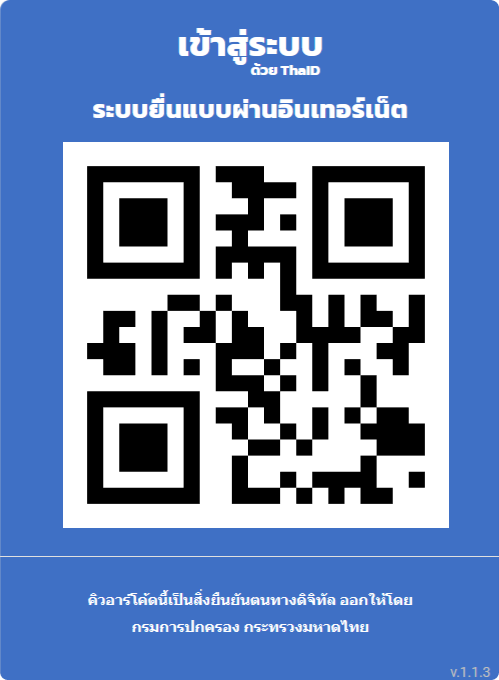
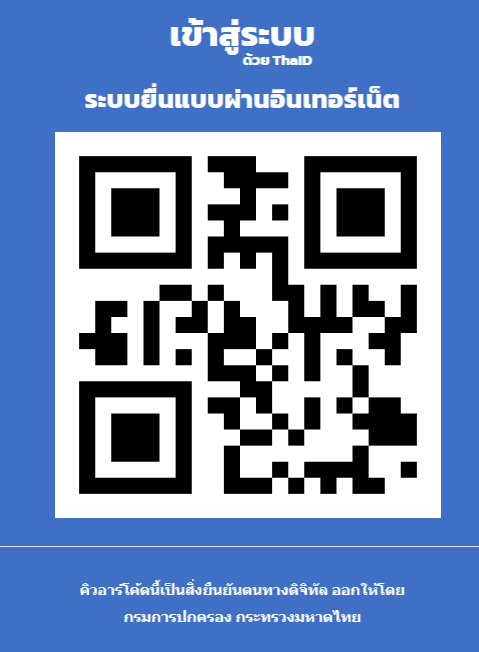
edit form regiser

diff --git a/assets/css/multi.css b/assets/css/multi.css
@@ -22,8 +22,6 @@
     box-sizing: border-box;
     width: 94%;
     margin: 0 3% 20px 3%;
-
-    /*stacking fieldsets above each other*/
     position: relative;
 }
 
@@ -149,7 +147,7 @@ select.list-dt:focus {
 
 
 .card-bg-form {
-    background-color: #fdfdfd;
+    background-color: #ffffff;
 }
 
 /*FieldSet headings*/
@@ -306,7 +304,7 @@ select.list-dt:focus {
 
 .form-card-1 {
     width: 200px;
-    height: 450px;
+    height: auto;
 }
 
 .text-multi{
@@ -340,3 +338,24 @@ select.list-dt:focus {
 .i-con-register{
     width: 30px;
 }
+
+#confirm_thai_id {
+    width: 900px;
+    height: auto;
+    display: flex;
+    align-items: flex-start;
+  }
+  
+  #confirm_thai_id div {
+    flex: 1;
+  }
+  
+  #box {
+    align-self: center;
+  }
+  
+  .bg-qr-code{
+    background-color: #3f70c5;
+    width: 100%;
+    height: 100%;
+  }

diff --git a/multi_form.php b/multi_form.php
@@ -8,15 +8,15 @@
     </div>
     <div class="row justify-content-center mt-0">
         <div class="col-11 col-sm-9 col-md-7 col-lg-6 text-center p-0 mt-3 mb-2">
-            <div class="card card-bg-form px-0 pt-4 pb-0 mt-3 mb-3 shadow">
+            <div class="card card-bg-form">
                 <h2><strong class="text-form-register">ลงทะเบียนเพื่อใช้งานระบบของกรมโยธาธิการและผังเมือง</strong></h2>
                 <div class="row">
                     <div class="col-md-12 mx-0">
                         <form id="msform">
                             <!-- progressbar -->
                             <ul id="progressbar" class="d-flex justify-content-center">
-                                <li class="active" id="account"><strong>ประกาศ</strong></li>
-                                <li id="personal"><strong>บุคคล</strong></li>
+                                <!-- <li class="active" id="account"><strong>ประกาศ</strong></li>
+                                <li id="personal"><strong>บุคคล</strong></li> -->
                                 <!-- <li id="payment"><strong>Payment</strong></li>
                                 <li id="confirm"><strong>Finish</strong></li> -->
                             </ul>

diff --git a/confirm_thai_id.php b/confirm_thai_id.php
@@ -1,14 +1,13 @@
 <?php include('comtop.php') ?>
-<?php include('header_2.php') ?>
 
 
 
-<div class="container main-content mt-3">
-    <div class="row">
-        <div class="col-xl-12">
+
+<div class="container main-content" id="confirm_thai_id">
+    <div class="row " id="box">
+        <div class="col-xl-12 align-self-center">
             <div class="shadow-sm p-3 mb-5 bg-white rounded">
                 <div class="d-flex justify-content-center">
-                    <div class="row">
                         <form>
                             <div class="row">
                                 <label for="" class="col-xl-12 p-0">
@@ -25,8 +24,7 @@
                                 </div>
                             </div>
                         </form>
-                    </div>
-                </div>
+                </div>  
             </div>
         </div>
     </div>
@@ -38,7 +36,8 @@
 
 
 
-<?php include('footer.php') ?> 
+
+ 
 <?php include ('combottom.php') ?>
 
 

diff --git a/view_qrcode_thai_id.php b/view_qrcode_thai_id.php
@@ -1,12 +1,11 @@
 <?php include('comtop.php') ?>
-<?php include('header_2.php') ?>
 
 
 
-<div class="container main-content mt-3">
-    <div class="row">
-        <div class="col-xl-12">
-            <div class="shadow-sm p-3 mb-5 bg-white rounded">
+<div class="bg-qr-code">
+    <div class="container main-content mt-3">
+        <div class="row">
+            <div class="col-xl-12">
                 <div class="col-xl-12 text-center">
                     <a href="register_general.php"  rel="noopener noreferrer">
                         <img src="assets/images/QR.png" class="img-fluid" alt="">
@@ -20,7 +19,9 @@
 
 
 
-<?php include('footer.php') ?> 
+
+
+
 <?php include ('combottom.php') ?>
 
 

diff --git a/register_general.php b/register_general.php
@@ -7,7 +7,7 @@
                 <nav aria-label="breadcrumb">
                     <ol class="breadcrumb m-0">
                         <li class="breadcrumb-item"><a href="index.php" class="navbar-menu"><i class="fa-solid fa-house-chimney"></i>หน้าหลัก</a></li>
-                        <li class="breadcrumb-item"><a href="multi_form.php" class="navbar-menu">สมัครสมาชิกนิติบุคคล</a></li>
+                        <li class="breadcrumb-item"><a href="multi_form.php" class="navbar-menu">สมัครสมาชิกบุคลากร</a></li>
                     </ol>
                 </nav>
             </div>
